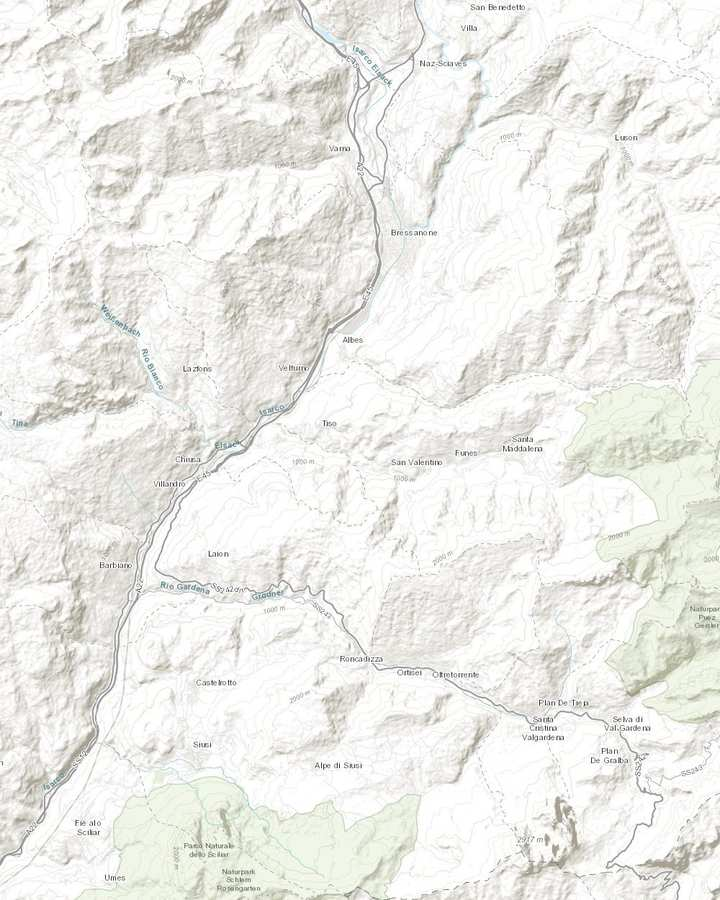
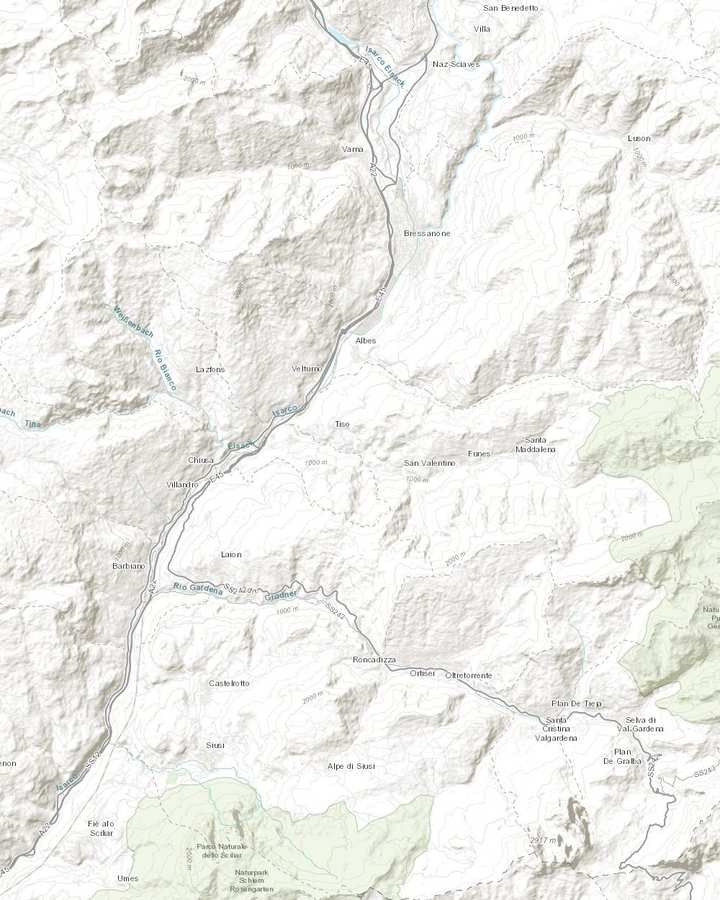
第 51 轮：D8 按新格式重写——缆车上、环线（十字架 → 山脊 → Pieralongia 石牙 → Troier → 爬回顶站）、Baita Sofie 13:30 午饭 1 小时、缆车原路下到车库、16:00 前后回 Brixen；往返票 €74、10/10 看预报再买；地图 8/8b 重画

diff --git a/index.html b/index.html
@@ -1287,77 +1287,87 @@ var DAYS = [
 /* ---------------- D8 ---------------- */
 {
   n:8, date:"2026-10-13", dow:"周二", city:"塞切达刀锋山",
-  line:"缆车上刀锋山：山脊看够、草甸走 1 小时、山顶吃饭，缆车原路下山，下午 Ortisei 逛街；最晴的一天给它",
-  drive:"开车往返约 1 小时 40 分", stayShort:"Brixen Gerharts",
+  line:"缆车上刀锋山，走一个环线：山顶十字架 → 山脊步道下到 Pieralongia 石牙 → 草甸经 Troier 爬回顶站（约 3 小时）→ 13:30 Baita Sofie 午饭 → 缆车原路下山到车库 → 16:00 前后回 Brixen；最晴的一天给它",
+  drive:"开车往返约 1 小时 20 分（40 分 + 40 分）", stayShort:"Brixen Gerharts",
   stay:{ t:"多洛米蒂 Gerharts · 第 2 晚", d:"Kreuzgasse 11, Bressanone 老城。", addr:"Kreuzgasse 11 / Via Santa Croce 11, 39042 Bressanone BZ" },
   wc:[],
-  flag:"※ Seceda 上山要提前在官网订 10:30 时段（不退不改，看准天气再订），买往返票；下山线只是备选。明早 8:00 家里吃早饭（10/12 到 Brixen 时买好三天的）",
+  flag:"※ 10/10 晚看 13、14 号预报：哪天晴 Seceda 放哪天，看准了再买往返时段票（€74/人，不退不改）。10/12 冷锋后山上可能有新雪：雪大就不走环线，只走山脊 + 草甸来回。明早 8:00 家里吃早饭（10/12 到 Brixen 时买好三天的）",
   route:[
-    {n:"Gerharts 公寓", m:"Kreuzgasse 11 Brixen", leg:"🚗 约 40 分钟"},
-    {n:"Ortisei · Garage Seceda 停车", m:"Parcheggio Garage Seceda Ortisei", leg:"🚡 两段缆车 15 分钟直上"},
-    {n:"塞切达顶站 2500 米 · 山脊机位", m:"Seceda", leg:"🥾 山脊 1 小时 + 草甸 1 小时"},
-    {n:"午饭 Baita Sofie", m:"Baita Sofie Seceda", leg:"🚡 缆车原路下山"},
-    {n:"Ortisei 步行街 Streda Rezia", m:"Streda Rezia Ortisei", leg:"🚶 7 分钟回 Garage Seceda 取车 · 🚗 约 40 分钟"},
-    {n:"晚饭 Finsterwirt", m:"Finsterwirt Brixen"}
+    {n:"Gerharts 公寓", m:"Kreuzgasse 11 Brixen", leg:"🚗 40 分钟（A22 Chiusa 出口 → SS242）"},
+    {n:"Ortisei · Garage Seceda 停车", m:"Parcheggio Garage Seceda Ortisei", leg:"🚡 两段缆车 15 分钟"},
+    {n:"Seceda 顶站 2,493 米", m:"Seceda", leg:"🥾 10 分钟"},
+    {n:"山顶十字架 · 全景点 2,519 米（刀锋机位）", m:"46.6006,11.7258", leg:"🥾 山脊步道下 45 分钟"},
+    {n:"Pieralongia 石牙 2,290 米", m:"Pieralongia Seceda", leg:"🥾 草甸平路 25 分钟"},
+    {n:"Troier 山屋（10 月关门，只是路标）", m:"Baita Troier Seceda", leg:"🥾 上坡 45 分钟（250 米）"},
+    {n:"Seceda 顶站 · Baita Sofie 午饭", m:"Baita Sofie Seceda", leg:"🚡 缆车 15 分钟下山"},
+    {n:"Ortisei 步行街 Streda Rezia（可选 30 分）", m:"Streda Rezia Ortisei", leg:"🚶 15 分钟回车库 · 🚗 40 分钟"},
+    {n:"Gerharts 公寓", m:"Kreuzgasse 11 Brixen", leg:"🚶 5 分钟"},
+    {n:"晚饭 Finsterwirt", m:"Finsterwirt Domgasse 3 Bressanone", leg:"🚶 饭后老城 20 分钟"}
   ],
   steps:[
-    { id:"d8-1", t:"9:00", e:"🥐", a:"公寓吃饱早饭" },
-    { id:"d8-2", t:"9:30", e:"🚗", a:"开 40 分钟到 Ortisei，车停缆车谷底站旁的 Garage Seceda", it:"Parking + Garage Seceda",
-      sub:"A22 Chiusa 出口上 Val Gardena 山路。导航就是这个车库，缆车站在隔壁。",
-      need:["Seceda 时段票（手机出示）","轻羽绒 + 防风外套（山上近 0 度）","信用卡 + 一点现金"],
-      addr:["Parking + Garage Seceda：Ortisei，Seceda 缆车谷底站旁"],
-      tips:["两层车库 + 小露天场共约 250 位；5:00-19:00 每 30 分钟 €2.50，一天封顶 €30；19:00 后每小时 €0.80。付款方式官网没写，按机器付款准备，卡和现金都带","不用预约：官网只有价目表，没有预订一说，到了直接进；10 月中旬工作日不会像夏天那样清早就满，但 10 点前到最稳","满了就导航 Parcheggio Setil：露天停车场 €2/小时，走 10 分钟到缆车站（小红书 9 月实测）"],
+    { id:"d8-1", t:"8:45", e:"🥐", a:"家里早饭 30 分钟（10/12 买的）" },
+    { id:"d8-2", t:"9:30", e:"🚗", a:"开 40 分钟到 Ortisei 的 Garage Seceda",
+      sub:"A22 Chiusa 出口上 SS242 Val Gardena 山路，导航直接输车库，缆车站在隔壁。",
+      need:["Seceda 往返时段票（手机出示）","登山鞋 + 轻羽绒 + 防风外套（山顶 0 度上下）","信用卡 + 一点现金"],
       nav:{m:"Parcheggio Garage Seceda Ortisei", mode:"driving"} },
-    { id:"d8-3", t:"10:30", hard:"官网预约的 30 分钟时段", e:"🚡", a:"Seceda 缆车直上 2500 米", it:"Ortisei – Furnes – Seceda",
-      sub:"两段缆车一张票：Ortisei–Furnes 小厢车，换乘 Furnes–Seceda 大缆车，15 分钟到顶。买往返票（价目以 seceda.it 为准），下午原路坐缆车下来。",
-      tips:["2026 年起上 Seceda 必须在 seceda.it 预约 30 分钟时段，票不退不改：看准天气再订，订 10:30-11:00 那档","缆车 8:30-17:30，季末 11/2；Fermeda 吊椅 9/20 就停了，所谓 Premium 票 10 月没用","刀锋山脊的经典机位在顶站旁走 10 分钟"],
-      link:{u:"https://www.seceda.it", l:"seceda.it 预约"},
+    { id:"d8-3", t:"10:10", e:"🅿", a:"Garage Seceda 停车：5:00–19:00 每 30 分钟 €2.50，一天封顶 €30",
+      sub:"两层车库，不用预约。满了改 Parcheggio Setil €2/小时，走 10 分钟到缆车站。",
+      addr:["Garage Seceda：Ortisei，Seceda 缆车谷底站旁"],
+      nav:{m:"Parcheggio Garage Seceda Ortisei", mode:"driving"} },
+    { id:"d8-4", t:"10:30", hard:"官网订的 30 分钟时段", e:"🚡", a:"缆车两段 15 分钟到顶站 2,493 米", it:"Ortisei – Furnes – Seceda",
+      sub:"Ortisei–Furnes 小厢车，换乘 Furnes–Seceda 大缆车。往返票，下午原路坐回。缆车 8:30–17:30，季末 11/2。",
+      link:{u:"https://www.seceda.it", l:"seceda.it 订时段票"},
       nav:{m:"Funivia Seceda Ortisei", mode:"walking"}, place:"Seceda",
       video:"https://search.bilibili.com/all?keyword=%E5%A1%9E%E5%88%87%E8%BE%BE%20%E8%AE%B2%E8%A7%A3" },
-    { id:"d8-4", t:"10:50", e:"📷", a:"山脊看够：顶站走 10 分钟到刀锋边，来回 1 小时",
-      sub:"平缓草甸，长辈走得动；看够回顶站吃饭。",
+    { id:"d8-5", t:"10:45", e:"📷", a:"顶站走 10 分钟到山顶十字架 2,519 米：刀锋机位，拍 15 分钟",
+      sub:"顶站出来往上就是；山脊边缘别靠太近。",
+      nav:{m:"46.6006,11.7258", mode:"walking"} },
+    { id:"d8-6", t:"11:15", e:"🥾", a:"沿山脊步道（1 号）往下走 45 分钟到 Pieralongia 石牙 2,290 米", it:"Seceda – Pieralongia",
+      sub:"一路正对长石山和 Sella；过 Forcella Pana 岔口往左下到两根石柱，拍 15 分钟。",
+      tips:["Komoot / AllTrails 搜「Seceda - Malga Pieralongia」，下离线"],
+      nav:{m:"Pieralongia Seceda", mode:"walking"}, place:"Pieralongia Val Gardena" },
+    { id:"d8-7", t:"12:15", e:"🥾", a:"草甸平路走 25 分钟到 Troier 山屋（10 月关门）：回望刀锋全貌的机位",
+      nav:{m:"Baita Troier Seceda", mode:"walking"} },
+    { id:"d8-8", t:"12:40", e:"🥾", a:"爬回顶站：1 号步道上坡 45 分钟，250 米",
+      sub:"路宽，慢慢走。饿得受不了：Troier 过去 10 分钟是 Daniel 山屋（4.5 / 1,316 评，开到 11/2），在那吃也行，但山顶那家更好。",
       nav:{m:"Seceda", mode:"walking"} },
-    { id:"d8-5", t:"12:00", e:"🥟", a:"午饭 Baita Sofie（顶站旁）：今天山上唯一确定开的饭", kind:"eat",
-      sub:"12:00 就落座避高峰，坐下吃 1.5 小时到 13:30。下山路上的 Troier、Pieralongia、Rifugio Firenze 三家 10/11 前后都关了，别指望半路吃。",
+    { id:"d8-9", t:"13:30", e:"🍽", a:"午饭 Baita Sofie（顶站旁），1 小时", kind:"eat",
       meals:[
         {n:"Baita Sofie", g:"4.6",
          d:"南蒂罗尔山屋菜：Knödel、Kaiserschmarrn、烤肉",
-         h:"6/1-11/2 每天开",
-         w:"露台正对长石山",
-         b:"不订位", m:"Baita Sofie Seceda"},
-        {n:"备选 Daniel Hütte（下山半路歇脚）",
-         d:"山屋简餐",
-         h:"官网写开到 10 月底、9:00-17:00，出发前打电话确认",
-         b:"电话确认", tel:"+39 334 5215599", m:"Daniel Hütte Seceda"}
+         h:"6/1–11/2 每天 8:00–18:00",
+         w:"露台正对长石山；山上唯一确定开的正经饭",
+         b:"不订位", tel:"+39 335 5271240", m:"Baita Sofie Seceda"},
+        {n:"备选 Daniel 山屋（环线半路）", g:"4.5",
+         d:"山屋菜 + 出名的 Kaiserschmarrn（€19）",
+         h:"5/30–11/2 每天 8:30–18:00",
+         w:"Google 4.5（1,316 评）、TripAdvisor 4.4；Troier 过去 10 分钟，露台正对长石山",
+         b:"不订位", tel:"+39 334 5215599", m:"Baita Daniel Seceda"}
       ],
       nav:{m:"Baita Sofie Seceda", mode:"walking"} },
-    { id:"d8-6", t:"13:30", e:"🥾", a:"草甸走 1 小时：顺 6 号步道往 Pieralongia 方向走 30 分钟，回头", it:"Seceda 草甸",
-      sub:"出顶站沿 6 号步道往下是宽草甸，一路正对长石山和 Sella，走 30 分钟到看得见 Pieralongia 怪石的地方就回头（再往下是 400 米的下坡，回来要爬）。这就是今天的徒步，1 小时。",
-      tips:["路线指引：Komoot 搜「Seceda Panoramaweg」或 AllTrails 搜「Seceda Ridgeline」，下离线；走多远看爸妈"],
-      nav:{m:"Seceda", mode:"walking"} },
-    { id:"d8-6b", t:"14:45", e:"🚡", a:"Seceda 缆车原路下山到 Ortisei，15 分钟", it:"Seceda – Furnes – Ortisei",
-      sub:"两段缆车换乘一次，回到车库隔壁的谷站。",
+    { id:"d8-10", t:"14:30", e:"🚡", a:"缆车原路下山 15 分钟，出来就是车库",
       nav:{m:"Funivia Seceda Ortisei", mode:"walking"} },
-    { id:"d8-6c", t:"备选", e:"🥾", a:"体力好：不坐缆车下，顺草甸走 2 小时下到 Col Raiser 再坐缆车回谷", optional:true,
-      sub:"6 号步道 → Pieralongia 怪石 → 4 号步道 → Col Raiser 顶站，6.2 公里、全程下坡 400 米，约 1 小时 40 分；Col Raiser 缆车单程 €23 现场买，末班 16:30（15:30 前到顶站）；到 S. Cristina 谷站坐 350 路公交 8 分钟回 Ortisei 镇中心。Komoot 自己规划：起点 Utia Seceda，途经 Pieralongia Hut，终点 Col Raiser Cable Car Mountain Station。走这条 Seceda 只买单程票。",
-      warn:["Col Raiser 末班 16:30 是硬时间","别走 Forcella Pana 那条：有滑坡封闭报告"],
-      link:{u:"https://www.alltrails.com/trail/italy/south-tyrol/col-raiser-seceda-pieralongia", l:"AllTrails 路线"},
-      nav:{m:"Col Raiser Santa Cristina", mode:"walking"}, place:"Pieralongia Val Gardena" },
-    { id:"d8-9", t:"15:15", e:"🛍", a:"Streda Rezia 步行街逛 45 分钟、喝杯咖啡，再走 7 分钟回 Garage Seceda 取车，开 40 分钟回 Brixen",
-      sub:"车一直停在车库不动（当天封顶 €30），逛完再取。步行街到车库 550 米。16:45 到 Brixen，晚饭前歇够。",
-      nav:{m:"Parcheggio Garage Seceda Ortisei", mode:"walking"} },
-    { id:"d8-10", t:"19:30", e:"🍷", a:"晚饭 Finsterwirt（Brixen）：大教堂旁走 5 分钟", kind:"eat",
+    { id:"d8-11", t:"14:45", e:"🛍", a:"可选：走 15 分钟到 Streda Rezia 步行街逛 30 分钟，再走 15 分钟回车库", optional:true,
+      sub:"不逛就 14:50 直接取车，15:30 到 Brixen。",
+      nav:{m:"Streda Rezia Ortisei", mode:"walking"} },
+    { id:"d8-12", t:"15:45", e:"🚗", a:"开 40 分钟回 Brixen 公寓，歇到晚饭",
+      nav:{m:"Kreuzgasse 11 Brixen", mode:"driving"} },
+    { id:"d8-13", t:"19:30", e:"🍷", a:"晚饭 Finsterwirt：走 5 分钟", kind:"eat",
       meals:[
         {n:"Finsterwirt（Oste Scuro）", g:"4.6",
-         d:"南蒂罗尔菜的讲究版：Schlutzkrapfen、鹿肉、当季菜，不是猪肘子路线",
+         d:"南蒂罗尔菜的讲究版：Schlutzkrapfen、鹿肉、当季菜",
          h:"周二开：厨房 18:45-21:00（周日周一休）",
-         w:"1870 年老店，木饰老厅，Google 4.6（1,061 评）全城最高，米其林指南收录；Google 价位 €30-90，点单菜控制在 €70 内没问题",
+         w:"1870 年老店，Google 4.6（1,061 评），米其林指南收录；点单菜控制在 €70 内没问题",
          b:"官网 finsterwirt.com 或邮件 info@finsterwirt.com 订", tel:"+39 0472 835343", m:"Finsterwirt Domgasse 3 Bressanone"}
       ],
       addr:["Finsterwirt：Domgasse 3 / Vicolo del Duomo 3, Bressanone"],
       nav:{m:"Finsterwirt Domgasse 3 Bressanone", mode:"walking"} },
-    { id:"d8-11", t:"备选", e:"🌧", a:"天气差就和 Day 9 富内斯谷对调（富内斯不用预约，Seceda 时段票看准天气再买）", optional:true,
-      sub:"两天都差：改博尔扎诺冰人奥茨博物馆 + 老城。" }
+    { id:"d8-14", t:"21:15", e:"🚶", a:"饭后老城走 20 分钟消食再回家",
+      nav:{m:"Kreuzgasse 11 Brixen", mode:"walking"} },
+    { id:"d8-15", t:"备选", e:"❄", a:"雪大或只想轻松：不走环线——山脊机位来回 1 小时，12:00 Sofie 吃 1 小时，13:00 草甸 6 号步道来回 1 小时，14:15 缆车下", optional:true,
+      nav:{m:"Seceda", mode:"walking"} },
+    { id:"d8-16", t:"备选", e:"🌧", a:"天气差就和 Day 9 对调（10/10 看预报定）；两天都差：博尔扎诺冰人奥茨博物馆 + 老城", optional:true,
+      nav:{m:"Museo Archeologico dell Alto Adige Bolzano", mode:"driving"} }
   ]
 },
 /* ---------------- D9 ---------------- */
@@ -1909,34 +1919,32 @@ var MAPS2 = {
     "8": {
     w:1000, h:1250,
     img:"maps/8.jpg",
-    walk:[[748,825],[749,823],[748,821],[749,818],[750,816],[752,815],[752,813],[748,825],[749,827],[749,830],[751,829],[753,827],[755,826],[756,826],[756,826],[759,825],[762,825],[763,827],[761,829],[760,832],[759,834],[757,835],[756,837],[755,839],[754,841],[755,843],[755,846],[757,845],[759,844],[761,843],[762,841],[764,839],[766,837],[769,837],[772,837],[775,836],[777,835],[779,833],[780,831],[782,830],[784,829],[605,916],[603,922],[605,924],[607,926],[607,929],[606,931],[608,933],[609,934]],
-    walkBreaks:[7, 14, 41],
-    drive:[[542,322],[538,321],[536,320],[534,321],[528,322],[525,322],[524,320],[524,317],[526,316],[527,318],[528,320],[527,322],[527,325],[523,334],[522,337],[522,340],[522,343],[522,346],[523,348],[524,351],[525,354],[527,359],[528,361],[529,363],[529,366],[529,369],[528,371],[528,375],[527,379],[526,381],[525,385],[524,387],[522,391],[521,394],[519,398],[518,400],[517,402],[516,404],[515,407],[514,409],[512,414],[511,416],[507,425],[506,427],[504,428],[500,430],[498,431],[496,432],[491,436],[489,437],[486,439],[481,443],[477,445],[475,446],[471,449],[469,450],[467,452],[465,454],[463,456],[461,458],[459,459],[457,460],[455,463],[454,465],[453,467],[450,480],[449,482],[448,485],[445,491],[443,496],[440,502],[439,504],[436,508],[433,515],[431,518],[427,526],[426,528],[425,530],[423,532],[422,534],[420,536],[418,538],[415,541],[413,544],[409,548],[408,550],[408,553],[408,558],[407,560],[405,561],[403,563],[402,565],[400,567],[398,568],[396,570],[392,571],[385,573],[383,574],[380,574],[378,575],[376,576],[374,577],[371,577],[368,577],[366,578],[364,579],[361,583],[359,587],[358,590],[357,592],[353,595],[352,597],[350,599],[348,600],[347,602],[346,604],[342,608],[341,610],[339,611],[337,612],[335,614],[333,615],[335,616],[336,618],[341,621],[342,623],[340,624],[338,625],[336,626],[334,627],[332,628],[328,629],[323,631],[320,632],[318,634],[316,635],[314,636],[313,638],[312,640],[310,642],[308,643],[306,644],[304,645],[302,648],[302,651],[303,653],[302,655],[299,655],[297,656],[294,657],[292,658],[290,659],[288,660],[285,662],[282,664],[280,666],[277,666],[275,668],[273,670],[271,672],[270,674],[269,677],[267,678],[266,680],[264,684],[262,686],[258,690],[256,691],[254,692],[253,695],[252,697],[250,698],[250,701],[251,705],[250,707],[249,709],[248,711],[246,714],[245,716],[244,720],[240,724],[239,726],[238,728],[238,731],[238,734],[237,736],[235,738],[234,740],[233,743],[232,747],[231,749],[229,751],[228,754],[227,757],[226,763],[225,765],[223,770],[222,772],[221,775],[220,777],[219,779],[218,781],[217,785],[216,788],[217,791],[219,793],[224,796],[226,798],[231,799],[233,800],[235,799],[237,800],[239,801],[241,802],[243,803],[245,804],[247,805],[249,807],[251,808],[253,809],[255,808],[258,808],[261,808],[265,808],[268,808],[271,807],[273,808],[275,809],[278,811],[281,813],[283,814],[285,813],[287,812],[289,811],[292,811],[294,812],[296,813],[299,813],[300,815],[301,817],[302,819],[305,820],[307,821],[310,821],[312,822],[315,821],[317,820],[319,819],[321,818],[323,817],[325,818],[328,818],[330,819],[332,820],[335,820],[339,819],[341,817],[344,817],[346,818],[347,820],[349,821],[351,820],[354,821],[355,823],[357,824],[360,824],[363,824],[366,823],[368,822],[370,821],[374,819],[375,816],[377,814],[378,812],[381,813],[383,814],[384,816],[386,815],[387,813],[388,811],[389,809],[391,807],[393,806],[395,807],[397,808],[402,811],[403,813],[404,815],[405,817],[406,819],[407,821],[409,822],[412,822],[414,821],[416,820],[420,820],[423,819],[425,818],[426,816],[427,814],[429,815],[431,817],[431,820],[431,823],[432,825],[434,826],[437,827],[440,826],[442,825],[444,823],[445,821],[447,820],[450,820],[451,822],[450,824],[450,827],[450,830],[450,833],[452,834],[454,835],[455,837],[458,838],[460,839],[462,840],[463,842],[464,844],[465,846],[467,847],[468,849],[469,851],[471,852],[473,853],[475,854],[477,855],[478,857],[476,860],[476,863],[477,866],[478,868],[478,871],[479,873],[481,874],[483,876],[484,878],[485,880],[487,881],[489,883],[492,885],[494,887],[501,898],[502,901],[504,904],[505,906],[507,908],[511,911],[512,913],[513,916],[515,917],[516,919],[518,921],[520,923],[521,925],[523,927],[525,930],[527,931],[531,930],[534,930],[539,929],[541,928],[543,929],[545,928],[548,928],[550,927],[553,927],[557,927],[560,927],[563,927],[566,927],[569,928],[572,928],[574,929],[577,929],[579,928],[581,927],[582,925],[583,923],[585,921],[588,921],[590,920],[594,919],[595,917],[597,914],[600,914],[602,913],[603,915],[604,915]],
-    driveBreaks:[],
-    title:"D8 塞切达（开车 + 缆车往返 + 山脊草甸）",
+    walk:[],
+    walkBreaks:[],
+    drive:[[560,324],[559,322],[556,322],[554,321],[552,323],[546,324],[543,323],[542,321],[543,318],[545,319],[546,321],[545,323],[545,326],[541,336],[540,338],[540,341],[540,345],[541,350],[542,352],[543,355],[545,360],[546,363],[547,365],[547,368],[546,373],[545,377],[545,380],[544,382],[543,386],[542,388],[540,393],[539,395],[538,397],[537,399],[536,402],[535,404],[533,408],[532,411],[530,415],[529,417],[525,426],[524,428],[522,429],[518,431],[516,432],[514,433],[509,437],[507,439],[505,440],[503,441],[499,444],[495,447],[493,448],[489,450],[487,452],[485,454],[483,456],[481,457],[479,459],[477,461],[475,462],[473,464],[472,467],[471,469],[468,482],[467,484],[466,486],[463,493],[461,497],[460,499],[458,503],[457,505],[454,510],[451,516],[449,520],[445,528],[444,530],[442,532],[440,535],[438,537],[437,539],[433,543],[431,546],[427,549],[426,551],[426,554],[426,559],[425,561],[423,562],[422,564],[420,566],[418,568],[416,570],[414,571],[412,572],[409,572],[403,574],[401,575],[398,575],[396,577],[394,578],[391,578],[386,579],[383,580],[381,581],[379,585],[377,589],[376,592],[375,594],[371,597],[369,599],[366,602],[365,604],[360,609],[359,611],[357,612],[355,614],[353,616],[351,617],[353,618],[354,620],[359,622],[360,624],[359,626],[357,627],[353,628],[350,630],[346,631],[340,632],[338,633],[335,635],[334,637],[332,638],[331,640],[328,643],[327,645],[324,646],[322,647],[320,649],[320,652],[321,654],[320,656],[317,657],[314,657],[311,658],[309,659],[306,661],[303,663],[301,665],[299,666],[297,667],[295,668],[292,670],[291,672],[289,673],[288,675],[287,678],[285,680],[284,682],[281,686],[279,688],[276,692],[274,693],[272,694],[271,696],[270,698],[268,699],[268,702],[269,707],[268,709],[266,710],[266,713],[263,715],[263,718],[262,722],[258,725],[257,727],[256,729],[256,732],[256,735],[255,737],[254,739],[252,741],[251,744],[250,746],[249,749],[248,751],[247,753],[246,756],[245,759],[244,761],[244,764],[243,767],[241,771],[240,773],[239,775],[238,778],[237,780],[235,783],[234,787],[234,790],[235,792],[237,794],[242,798],[244,799],[246,800],[248,801],[251,801],[254,801],[256,802],[258,803],[260,804],[262,805],[264,806],[266,808],[268,809],[270,810],[273,810],[276,810],[279,810],[282,809],[285,809],[288,809],[291,809],[293,811],[296,812],[297,814],[299,815],[302,815],[304,814],[306,813],[308,812],[311,813],[313,814],[316,814],[317,816],[318,818],[320,820],[323,822],[325,823],[328,823],[333,822],[336,822],[338,820],[340,819],[343,819],[346,819],[348,821],[351,822],[354,822],[357,821],[359,819],[362,819],[364,820],[365,822],[367,823],[369,822],[372,822],[373,824],[375,825],[378,825],[381,825],[384,824],[386,823],[388,822],[392,820],[393,818],[395,816],[396,814],[398,813],[401,816],[403,817],[405,816],[406,813],[407,811],[408,809],[410,808],[413,808],[415,810],[420,813],[422,816],[423,818],[424,820],[425,822],[427,823],[430,823],[432,822],[435,822],[438,822],[441,821],[443,820],[443,817],[445,816],[448,817],[449,819],[449,822],[449,825],[451,827],[453,828],[455,829],[458,828],[460,826],[462,825],[463,823],[465,822],[467,821],[469,823],[468,826],[468,829],[468,832],[468,835],[470,836],[472,837],[474,839],[476,840],[478,841],[480,842],[481,844],[482,846],[484,848],[485,850],[486,852],[488,853],[490,854],[492,855],[494,856],[495,858],[494,861],[493,863],[494,865],[495,867],[496,870],[496,873],[497,875],[499,876],[501,878],[502,880],[504,882],[507,884],[510,887],[512,889],[519,900],[520,902],[522,905],[523,907],[524,909],[529,913],[530,915],[531,917],[532,919],[534,920],[535,922],[537,924],[539,927],[541,929],[543,931],[545,932],[549,932],[551,931],[556,930],[559,930],[562,930],[566,929],[568,928],[571,928],[574,929],[578,929],[581,929],[584,929],[587,929],[589,930],[592,930],[595,930],[597,929],[599,928],[601,927],[602,924],[604,923],[606,922],[609,922],[612,921],[613,919],[614,917],[616,915],[619,915],[621,916],[621,916],[702,861],[766,826]],
+    driveBreaks:[386],
+    title:"D8 布雷萨诺内 → Ortisei Garage Seceda（开车 40 分）→ 两段缆车上 Seceda 顶站",
     pins:[
-      {x:542,y:324,n:1,k:"stay",l:"布雷萨诺内住处",m:"Kreuzgasse 11 Brixen",mo:"driving",leg:"开车 40 分"},
-      {x:605,y:916,n:2,k:"transit",l:"Garage Seceda·缆车谷站",m:"Parcheggio Garage Seceda Ortisei",mo:"walking",leg:"缆车 15 分直上 2,500 米"},
-      {x:748,y:825,n:3,k:"sight",l:"塞切达顶站·刀锋山脊",m:"Seceda",mo:"walking",leg:"刀锋边来回 1 小时"},
-      {x:756,y:826,n:4,k:"eat",l:"Baita Sofie 午饭",m:"Baita Sofie Seceda",mo:"walking",leg:"6 号步道往 Pieralongia 走 30 分"},
-      {x:784,y:826,n:5,k:"sight",l:"草甸折返点（Pieralongia 方向）",m:"Pieralongia",mo:"walking",leg:"原路回顶站 · 缆车下山 15 分"},
-      {x:609,y:934,n:6,k:"shop",l:"Ortisei · Streda Rezia",m:"Streda Rezia Ortisei",mo:"walking",leg:"逛 45 分 · 走 7 分回车库 · 开 40 分回 Brixen"}
+      {x:560,y:326,n:1,k:"stay",l:"布雷萨诺内住处 · 9:30 出发",m:"Kreuzgasse 11 Brixen",mo:"driving",leg:"A22 Chiusa 出口 → SS242，40 分"},
+      {x:621,y:916,n:2,k:"transit",l:"Garage Seceda 停车 · 缆车谷站",m:"Parcheggio Garage Seceda Ortisei",mo:"walking",leg:"🚡 Ortisei–Furnes–Seceda 两段 15 分"},
+      {x:702,y:861,n:3,k:"transit",l:"Furnes 中间站 1,730 米（换乘）",m:"Furnes Seceda",mo:"walking",leg:"🚡 大缆车"},
+      {x:766,y:826,n:4,k:"sight",l:"Seceda 顶站 2,493 米 · 环线起点 · Baita Sofie 午饭",m:"Seceda",mo:"walking",leg:"环线见下一张图 · 14:30 缆车原路下"}
     ]
   },
 "8b": {
     w:1000, h:1250,
     img:"maps/8b.jpg",
-    walk:[[253,448],[254,452],[263,449],[262,446],[260,439],[259,436],[257,434],[255,432],[252,430],[250,427],[248,424],[248,420],[248,416],[249,414],[250,410],[253,405],[256,399],[260,394],[265,388],[268,383],[275,374],[280,367],[281,365],[282,360],[286,360],[289,359],[286,358],[253,448],[254,452],[263,449],[260,454],[258,459],[257,464],[257,472],[259,481],[259,487],[259,492],[259,496],[259,499],[261,501],[264,500],[267,496],[269,492],[270,485],[271,481],[274,479],[279,476],[283,472],[287,469],[289,468],[291,467],[299,464],[307,461],[309,460],[315,461],[317,461],[317,461],[322,461],[324,460],[327,459],[333,456],[338,454],[345,452],[354,450],[365,450],[369,450],[371,451],[372,456],[372,463],[371,467],[370,470],[368,472],[364,475],[359,479],[357,482],[355,484],[354,488],[354,494],[354,498],[353,500],[352,502],[351,505],[348,508],[346,510],[343,513],[341,516],[337,523],[335,526],[333,527],[328,531],[325,533],[322,535],[320,536],[319,539],[319,543],[318,547],[316,548],[309,553],[307,555],[305,557],[304,559],[304,570],[304,574],[303,577],[302,581],[301,583],[301,586],[302,588],[303,593],[304,598],[304,602],[304,605],[304,608],[303,610],[304,614],[305,616],[308,618],[311,618],[313,617],[316,614],[319,611],[322,607],[328,602],[332,600],[336,600],[341,601],[345,601],[352,598],[355,596],[357,594],[356,588],[357,586],[358,584],[365,579],[369,574],[371,571],[378,563],[388,553],[392,550],[395,548],[405,549],[413,549],[418,548],[426,548],[436,547],[445,547],[453,545],[458,544],[464,543],[467,542],[470,541],[472,540],[478,537],[485,534],[489,532],[490,529],[490,525],[492,523],[499,513],[503,508],[505,504],[508,500],[510,498],[518,495],[524,489],[528,487],[536,483],[539,483],[539,483],[536,483],[528,487],[524,489],[518,495],[510,498],[508,500],[505,504],[503,508],[499,513],[492,523],[490,525],[490,529],[493,531],[495,532],[497,533],[502,539],[504,540],[507,540],[511,541],[514,542],[515,545],[515,548],[516,551],[518,556],[518,559],[518,562],[518,571],[519,575],[522,579],[524,581],[527,582],[532,581],[535,580],[537,581],[539,582],[540,585],[542,588],[546,591],[552,596],[557,598],[566,595],[569,596],[571,598],[575,602],[579,608],[580,611],[579,614],[577,621],[575,635],[574,637],[573,639],[573,643],[572,646],[573,651],[575,656],[577,664],[578,667],[582,673],[583,676],[582,682],[582,693],[581,701],[586,699],[591,700],[597,700],[602,700],[613,699],[617,698],[620,698],[638,698],[644,700],[649,698],[655,697],[658,696],[660,694],[663,692],[666,692],[668,695],[670,697],[675,701],[678,705],[683,706],[687,708],[689,710],[689,715],[689,720],[689,723],[690,725],[691,727],[694,728],[698,728],[703,728],[707,727],[710,728],[713,731],[715,733],[718,734],[720,737],[720,740],[719,743],[720,748],[726,757],[730,771],[731,786],[732,789],[734,792],[737,795],[738,797],[738,805],[739,808],[740,813],[738,817],[737,824],[737,833],[734,846],[734,850],[737,851],[741,854],[742,856],[743,859],[745,861],[745,865],[747,868],[747,871],[746,873],[748,876],[750,877],[751,880],[752,883],[752,886],[748,889]],
-    walkBreaks:[27, 56, 168],
+    walk:[[202,585],[203,588],[204,590],[212,585],[211,583],[209,575],[208,573],[206,571],[204,569],[201,567],[200,565],[199,563],[198,561],[197,557],[197,553],[198,550],[199,547],[202,542],[205,535],[209,531],[214,525],[217,519],[224,511],[229,504],[230,501],[231,497],[233,496],[235,497],[238,496],[235,495],[235,495],[238,496],[235,497],[233,496],[231,497],[230,501],[229,504],[224,511],[217,519],[214,525],[209,531],[205,535],[202,542],[199,547],[198,550],[197,553],[197,557],[198,561],[199,563],[200,565],[201,567],[204,569],[206,571],[208,573],[209,575],[211,583],[212,585],[209,590],[207,596],[206,601],[206,608],[208,618],[208,624],[208,629],[208,632],[208,635],[210,638],[213,636],[216,632],[218,628],[219,622],[220,618],[223,616],[228,613],[232,609],[236,605],[238,604],[240,603],[249,601],[256,598],[258,597],[264,598],[267,598],[271,597],[276,595],[282,593],[287,591],[294,589],[303,587],[314,586],[318,586],[320,587],[326,578],[328,575],[330,570],[333,566],[335,563],[337,561],[341,558],[352,550],[355,547],[357,543],[359,539],[364,535],[370,531],[374,528],[380,526],[381,524],[383,522],[386,522],[389,523],[394,524],[403,523],[418,521],[431,521],[436,522],[439,521],[442,521],[446,520],[443,521],[439,521],[436,522],[431,521],[418,521],[403,523],[394,524],[389,523],[386,522],[383,522],[381,524],[380,526],[374,528],[370,531],[364,535],[359,539],[357,543],[355,547],[352,550],[341,558],[337,561],[335,563],[333,566],[330,570],[328,575],[326,578],[321,586],[321,589],[321,593],[321,600],[320,603],[319,606],[318,608],[313,612],[308,616],[306,618],[304,620],[303,622],[303,625],[303,630],[303,634],[302,636],[301,639],[300,641],[297,644],[295,646],[292,649],[291,651],[290,654],[286,660],[284,662],[282,664],[277,667],[274,670],[271,672],[269,673],[268,675],[268,679],[268,682],[265,685],[258,689],[256,691],[254,693],[253,695],[253,707],[253,711],[252,714],[251,717],[250,720],[250,723],[251,725],[252,730],[253,734],[253,738],[253,741],[253,745],[252,747],[253,749],[254,752],[255,754],[257,755],[260,755],[262,753],[265,751],[269,747],[271,743],[277,739],[281,737],[285,736],[290,737],[294,738],[301,735],[304,733],[306,731],[306,728],[305,725],[306,722],[314,715],[318,711],[320,708],[327,700],[337,690],[341,686],[344,684],[354,686],[362,686],[367,684],[375,685],[385,683],[394,684],[396,683],[402,681],[407,680],[413,679],[416,678],[419,677],[427,673],[435,671],[438,669],[439,665],[439,662],[441,659],[448,650],[452,644],[454,640],[457,637],[459,635],[467,632],[473,626],[477,624],[485,620],[488,619],[493,620],[496,621],[498,620],[500,619],[502,617],[508,611],[511,610],[514,608],[519,607],[521,605],[523,600],[525,599],[527,598],[530,598],[532,596],[536,591],[539,588],[544,583],[546,582],[548,581],[552,580],[549,579],[547,578],[545,577],[543,576],[541,575],[540,573],[537,572],[535,571],[533,570],[530,569],[527,565],[525,563],[524,561],[522,559],[521,557],[522,555],[523,553],[521,551],[519,550],[517,546],[518,544],[519,541],[522,539],[524,537],[525,535],[526,533],[527,531],[528,528],[528,525],[528,528],[527,531],[526,533],[525,535],[524,537],[522,538],[520,540],[518,542],[517,545],[518,549],[521,551],[523,553],[522,555],[521,557],[522,559],[524,561],[525,563],[527,565],[529,568],[533,570],[535,571],[537,572],[539,573],[541,575],[543,576],[545,577],[547,578],[549,579],[552,580],[551,582],[552,584],[555,585],[559,585],[561,584],[559,592],[560,594],[562,599],[566,603],[572,607],[574,608],[576,609],[578,610],[580,612],[582,614],[584,617],[587,617],[591,619],[593,620],[596,622],[598,624],[601,625],[603,626],[604,629],[605,632],[607,633],[607,636],[605,639],[604,641],[609,647],[614,653],[617,655],[621,656],[625,657],[629,659],[633,661],[635,662],[636,665],[638,671],[640,678],[642,680],[646,682],[650,685],[652,688],[658,693],[659,700],[663,711],[666,717],[667,719],[668,722],[668,727],[669,732],[670,735],[672,741],[674,739],[678,738],[681,737],[687,731],[691,726],[693,724],[697,721],[700,719],[703,717],[717,717],[727,713],[738,709],[740,707],[746,705],[749,703],[752,701],[755,698],[757,694],[760,688],[762,685],[765,681],[768,679],[771,677],[774,671],[782,668],[791,666],[795,665],[803,662],[798,649],[795,647],[793,644],[792,640],[790,637],[789,635],[789,631],[790,629],[794,626],[797,623],[800,619],[800,615],[798,613],[793,612],[780,611],[762,602],[752,602],[752,602],[762,602],[780,611],[793,612],[798,613],[800,614],[800,619],[797,623],[794,626],[790,629],[789,631],[789,635],[790,637],[792,640],[793,644],[795,647],[798,649],[803,660],[795,665],[791,666],[782,668],[775,670],[771,677],[769,678],[766,680],[764,685],[761,687],[757,694],[755,698],[752,701],[749,703],[746,705],[740,707],[738,709],[727,713],[717,717],[703,717],[700,719],[698,720],[693,724],[691,726],[687,731],[681,737],[678,738],[675,739],[673,740],[670,737],[669,732],[668,727],[668,722],[667,719],[666,717],[663,711],[659,700],[659,694],[652,688],[650,685],[646,682],[643,681],[640,678],[638,671],[636,667],[635,662],[633,661],[629,659],[625,657],[621,656],[617,655],[614,653],[609,647],[604,643],[605,639],[607,636],[608,634],[605,632],[604,630],[604,627],[601,625],[599,624],[596,622],[593,620],[591,619],[588,618],[586,617],[582,616],[581,612],[578,610],[576,609],[574,608],[572,607],[566,603],[562,599],[560,596],[559,593],[561,586],[560,584],[557,585],[556,585],[556,585],[552,584],[551,582],[552,580],[548,581],[546,582],[544,583],[539,588],[536,591],[532,596],[530,598],[527,598],[525,599],[523,600],[521,605],[519,607],[514,608],[511,610],[508,611],[502,617],[500,619],[498,620],[496,621],[493,620],[490,619],[485,620],[477,624],[473,626],[467,632],[459,635],[457,637],[454,640],[452,644],[448,650],[441,659],[439,662],[439,665],[439,668],[435,671],[427,673],[421,677],[416,678],[413,679],[407,680],[402,681],[396,683],[394,684],[385,683],[375,685],[367,684],[362,686],[354,686],[344,684],[341,686],[337,690],[327,700],[320,708],[318,711],[314,715],[307,721],[305,724],[306,728],[306,731],[304,733],[301,735],[294,738],[290,737],[285,736],[281,737],[277,739],[271,743],[269,747],[265,751],[262,753],[260,755],[257,755],[255,754],[254,752],[253,750],[252,747],[253,745],[253,741],[253,738],[253,734],[252,730],[251,725],[250,723],[250,720],[251,717],[252,715],[253,712],[253,709],[253,697],[254,693],[256,691],[258,689],[265,685],[267,683],[268,681],[268,675],[269,673],[271,672],[274,670],[277,667],[282,664],[284,662],[286,660],[290,654],[291,651],[292,649],[295,646],[297,644],[300,641],[301,639],[302,636],[303,634],[303,630],[303,626],[303,622],[304,620],[306,618],[308,616],[313,612],[317,609],[319,606],[320,603],[321,600],[321,593],[321,589],[320,587],[318,586],[314,586],[303,587],[294,589],[287,591],[282,593],[277,594],[273,597],[267,598],[266,598]],
+    walkBreaks:[30, 429, 527],
     drive:[],
     driveBreaks:[],
-    title:"D8 山上 塞切达顶站 → 刀锋山脊 → Baita Sofie → 草甸来回",
+    title:"D8 Seceda 环线（约 3 小时）：顶站 → 山顶十字架 → 山脊步道 → Pieralongia 石牙 → Troier → 爬回顶站",
     pins:[
-      {x:253,y:448,n:1,k:"transit",l:"塞切达缆车顶站 2,500 米",m:"Seceda",mo:"walking",leg:"步行 10 分到刀锋边"},
-      {x:286,y:358,n:2,k:"sight",l:"刀锋山脊·看 Odle 群峰",m:"Seceda",mo:"walking",leg:"来回 1 小时 · 回顶站旁吃饭"},
-      {x:318,y:456,n:3,k:"eat",l:"Baita Sofie 午饭",m:"Baita Sofie Seceda",mo:"walking",leg:"6 号步道往 Pieralongia 走 30 分"},
-      {x:536,y:463,n:4,k:"sight",l:"草甸折返点（Pieralongia 方向）",m:"Pieralongia",mo:"walking",leg:"原路回顶站 · 14:15 缆车下山"},
-      {x:750,y:892,n:5,k:"transit",l:"Col Raiser 顶站（备选下山线）",m:"Col Raiser Santa Cristina",mo:"walking",leg:"缆车下 €23 · 350 路公交回 Ortisei"}
+      {x:202,y:585,n:1,k:"transit",l:"Seceda 顶站 2,493 米（10:45 到）",m:"Seceda",mo:"walking",leg:"🥾 10 分"},
+      {x:235,y:495,n:2,k:"sight",l:"山顶十字架 · 全景点 2,519 米（刀锋机位）",m:"46.6006,11.7258",mo:"walking",leg:"🥾 山脊步道下 45 分"},
+      {x:747,y:600,n:3,k:"sight",l:"Pieralongia 石牙 2,290 米（12:00）",m:"Pieralongia Seceda",mo:"walking",leg:"🥾 草甸平路 25 分"},
+      {x:556,y:582,n:4,k:"sight",l:"Troier 山屋（关门，回望刀锋）",m:"Baita Troier Seceda",mo:"walking",leg:"🥾 上坡 45 分 · 250 米"},
+      {x:267,y:592,n:5,k:"eat",l:"Baita Sofie 午饭 13:30 → 14:30 缆车下",m:"Baita Sofie Seceda",mo:"walking",leg:""}
     ]
   },
     "9": {
@@ -2111,7 +2119,7 @@ var PREP = [
 { when:"到意大利后", items:[
   { id:"prep-26", cat:"🍽 订位", a:"10/10 前后：Osteria da Alberto（10/12 午 11:30 · 威尼斯）",
     d:"只接 WhatsApp / 电话 +39 041 523 8153。" },
-  { id:"prep-5c", cat:"🎫 门票", a:"10/11：Seceda 缆车时段票，seceda.it 订 10/13 10:30 时段，3 张单程上山（€49，不退不改）",
+  { id:"prep-5c", cat:"🎫 门票", a:"10/10 晚看完预报再买：Seceda 缆车时段票，seceda.it 订晴天那天 10:30 时段，3 张往返（€74/人，不退不改）",
     d:"看准天气再买；天气差就和 Day 9 对调再买。10/13 没有通票可用（Gardena Card 只到 10/11，Supersummer 不含 Seceda）。",
     link:{u:"https://www.seceda.it", l:"seceda.it"} },
   { id:"prep-35", cat:"🎫 门票", a:"10/15：Trenord App 买 10/17 8:55 Malpensa Express 三张（€15/人），顺手查 trenord.it 有没有施工改公交" },
@@ -3071,11 +3079,11 @@ var DRIVE = {
     {
       d: "D8",
       from: "布雷萨诺内", to: "Ortisei · Garage Seceda（缆车谷站旁）",
-      km: "31", min: "约 40 分钟",
-      road: "A22 Chiusa 出口 → SS242 Val Gardena 山路上 Ortisei，导航直接输车库",
+      km: "31", min: "约 40 分钟（回程同）",
+      road: "A22 Chiusa 出口 → SS242 Val Gardena 山路上 Ortisei，导航直接输车库；下午缆车下来就在车库旁取车，不坐公交不打车",
       toll: "A22 短程收费",
       park: "Garage Seceda：5:00–19:00 每 30 分钟 €2.50，一天封顶 €30；满了改 Parcheggio Setil €2/小时，走 10 分钟到缆车站",
-      lift: "Seceda 缆车 8:30–17:30，季末 11/2；2026 年起要在 seceda.it 预约 30 分钟时段，票不退不改，价目以官网为准",
+      lift: "Seceda 缆车 8:30–17:30，季末 11/2；2026 年起要在 seceda.it 预约 30 分钟时段，票不退不改；往返 €74/人，10/10 看完预报再买",
       ztl: "", host: ""
     },
     {
